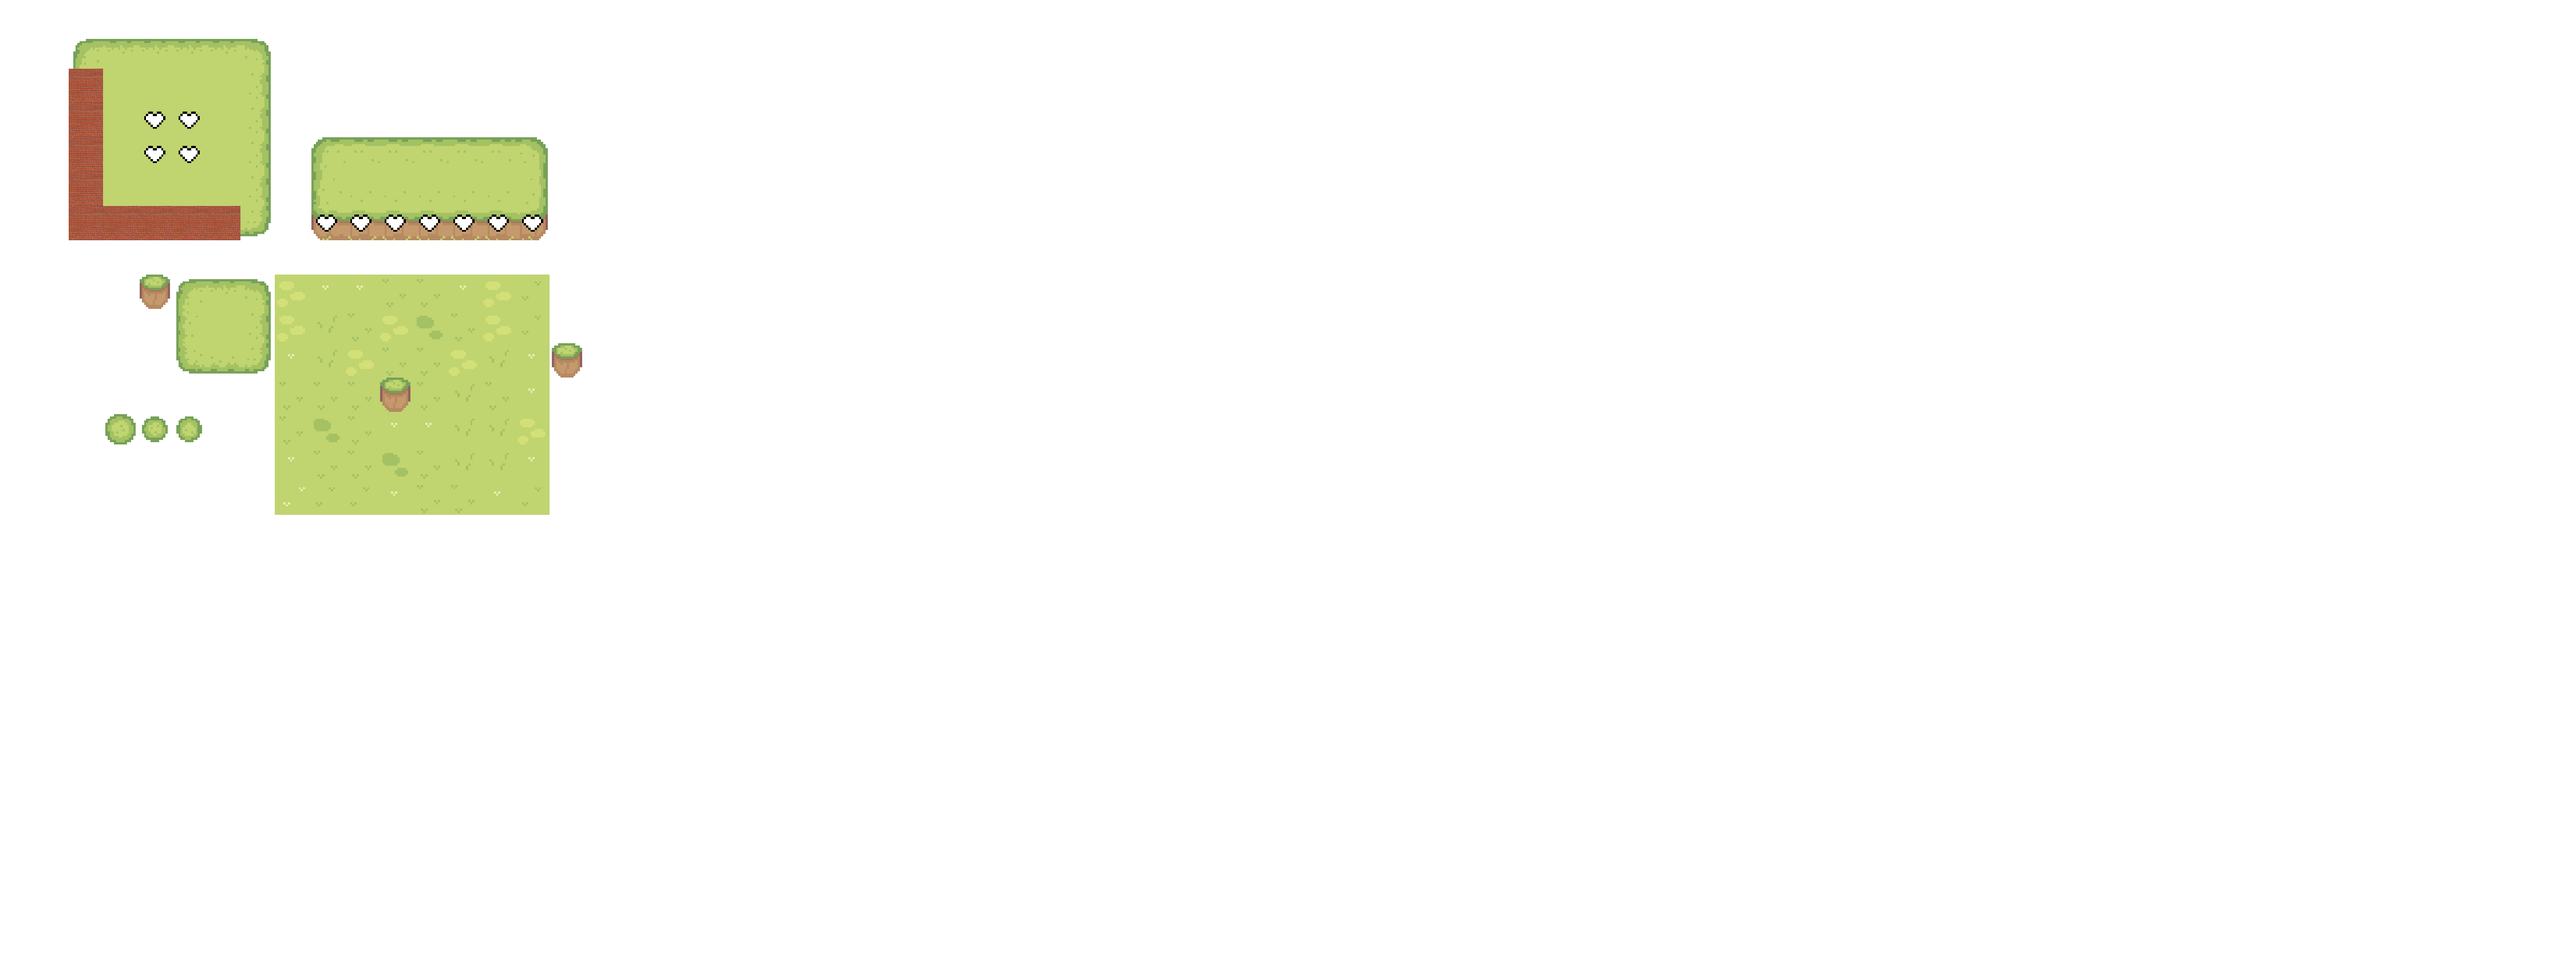
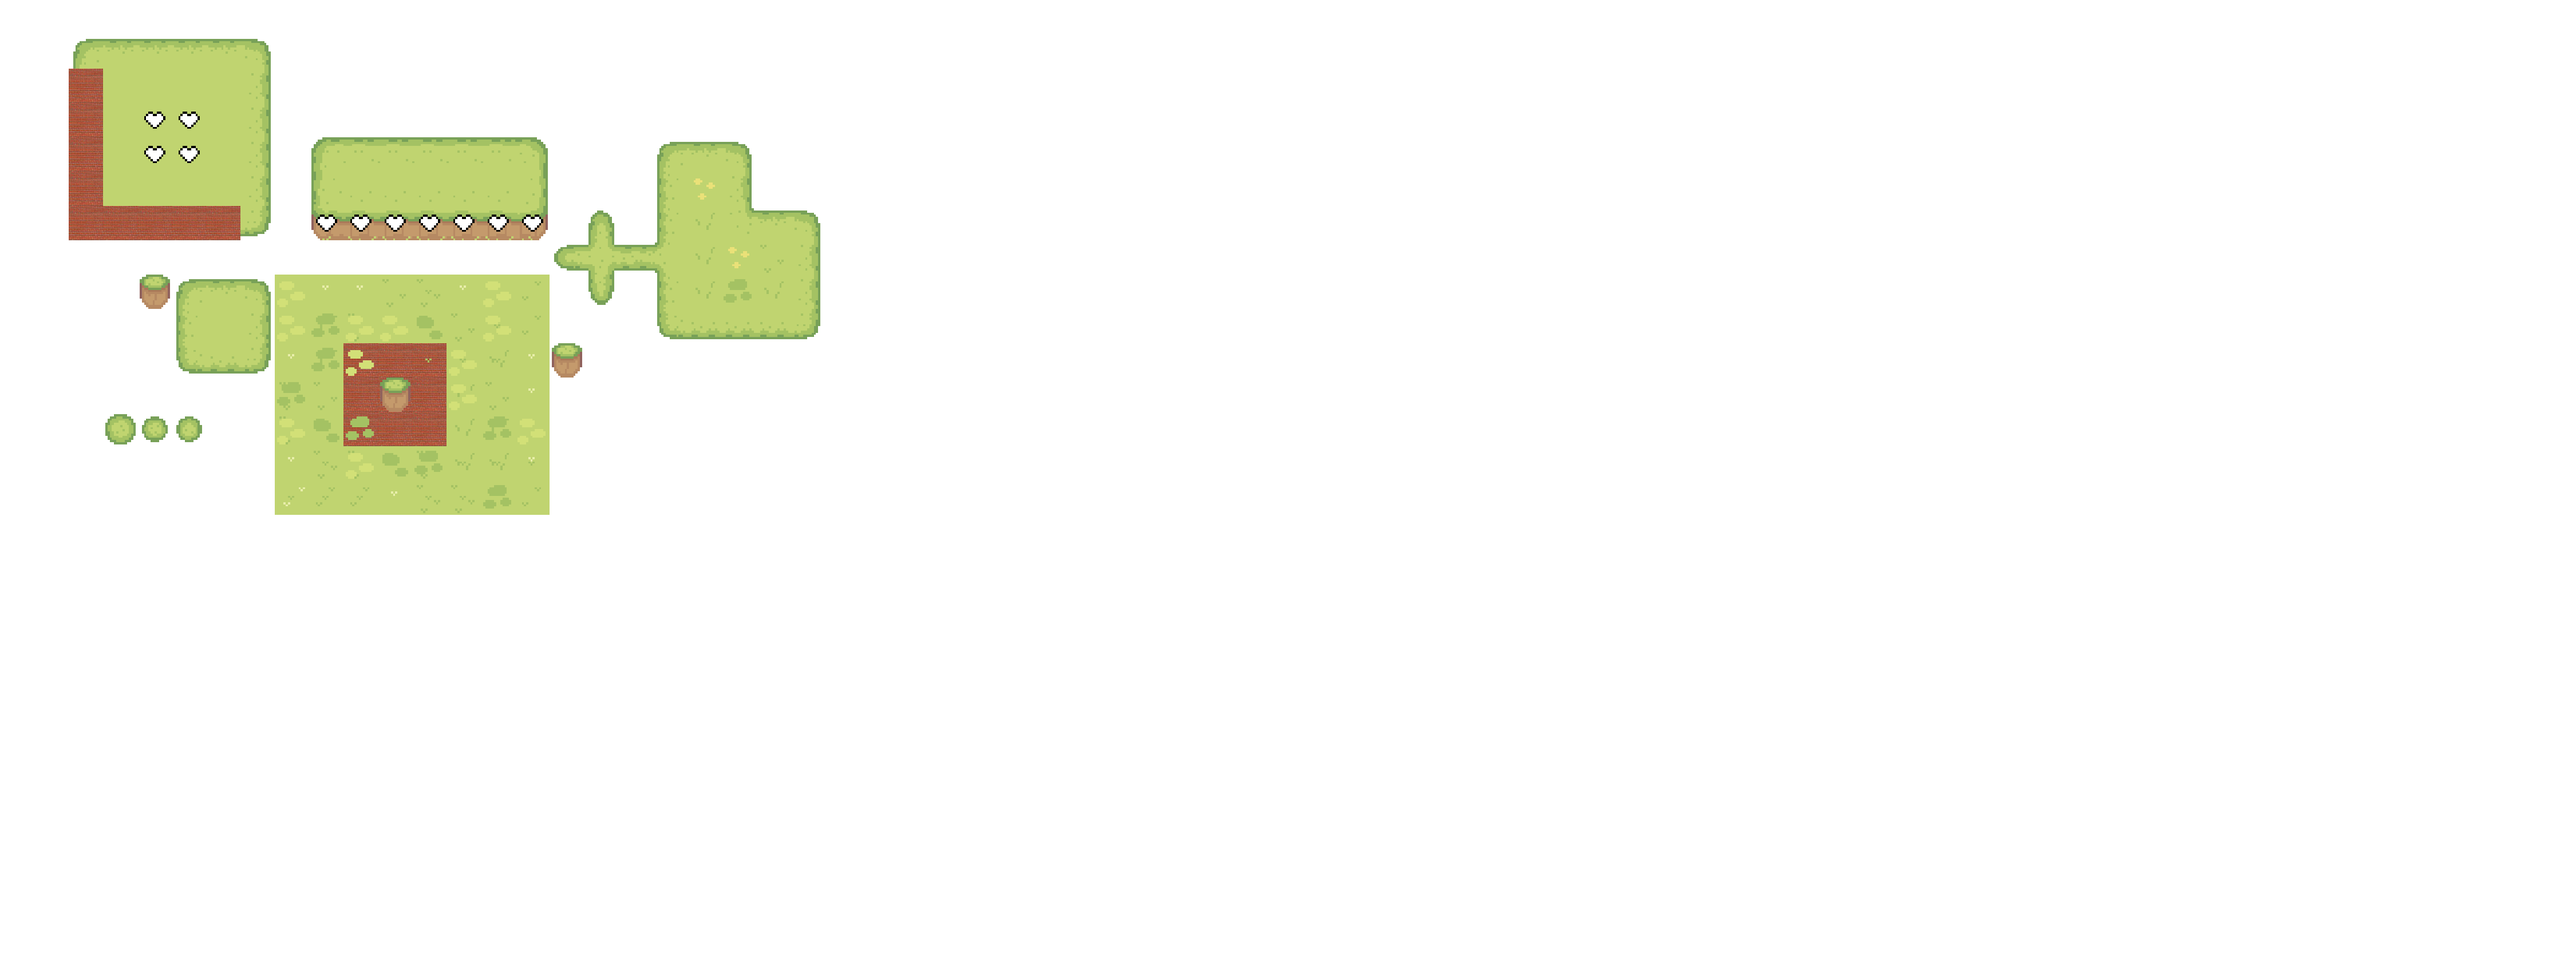
ajouté remplissage de rectangle et écran aide

Changed region(s): [[0.2178, 0.1238, 0.3422, 0.3714], [0.0933, 0.3405, 0.2178, 0.4952], [0.1867, 0.4952, 0.2178, 0.5262]]

diff --git a/Projet jeu vidéo/maps/map editor.py b/Projet jeu vidéo/maps/map editor.py
@@ -2,7 +2,7 @@ import pygame
 import sys
 import os
 import pickle
-
+from math import ceil, floor
 from attributs import *
 
 pygame.init()
@@ -12,13 +12,13 @@ BG_COLOR = (255, 255, 255)
 
 # constantes pour le zoom
 MIN_ZOOM = 0.2
-MAX_ZOOM = 10
+MAX_ZOOM = 5
 
 #Paramétres de la map
 NUM_LAYERS = 5
 
-SCREEN_WIDTH = 800
-SCREEN_HEIGHT = 600
+SCREEN_WIDTH = 900
+SCREEN_HEIGHT = 700
 
 FOLDER_PATH = "collisions"
 TILE_MAP_FOLDER_NAME = "tilemaps"
@@ -27,6 +27,10 @@ TILE_MAP_RELOADABLE_FILE_NAME = "map_reload.txt"
 TILE_MAP_IMAGE_FILE_NAME = "map.png"
 
 FONT = pygame.font.Font(size=32)
+
+HELP_BACKGROUND = pygame.Surface((SCREEN_WIDTH, SCREEN_HEIGHT))
+HELP_BACKGROUND.fill(pygame.Color(200, 200, 100))
+HELP_BACKGROUND.set_alpha(150)
 
 if os.path.isfile(TILE_MAP_IMAGE_FILE_NAME):
     map_surface = pygame.image.load(TILE_MAP_IMAGE_FILE_NAME)
@@ -84,6 +88,10 @@ def main():
     menu.draw(screen)
 
     placing_tile = False
+    placing_rect = False
+    placing_rect_position = pygame.Vector2(0, 0)
+
+    show_help = True
 
     map_sauvegarde = True
 
@@ -95,29 +103,38 @@ def main():
     running = True
     while running:
         touches_appuyes = pygame.key.get_pressed()
+        x, y = pygame.mouse.get_pos()
         for event in pygame.event.get():
             if event.type == pygame.KEYDOWN:
                 if event.key == pygame.K_ESCAPE:
                     dialogue_quitter(layers, map_sauvegarde, images)
-                if event.key == pygame.K_q:
+                elif event.key == pygame.K_q:
                     map_sauvegarde = True
                     save_map_image(layers, images)
                     pygame.image.save(map_surface, TILE_MAP_IMAGE_FILE_NAME)
                     save_map(TILE_MAP_FILE_NAME, layers)
                     save_map(TILE_MAP_RELOADABLE_FILE_NAME, layers, False)
-                if event.key == pygame.K_a:
+                elif event.key == pygame.K_a:
                     menu.visible = not menu.visible
                     if not menu.visible:
                         menu.dragging = -1
-                if event.key == pygame.K_UP:
+                elif event.key == pygame.K_UP:
                     current_layer = min(current_layer + 1, NUM_LAYERS - 1)
                 elif event.key == pygame.K_DOWN:
                     current_layer = max(current_layer - 1, 0)
+                elif event.key == pygame.K_e:
+                    menu.dragging = VIDE
+                elif event.key == pygame.K_h:
+                    show_help = not show_help
                 if touches_appuyes[pygame.K_LCTRL] or touches_appuyes[pygame.K_RCTRL]:
                     if event.key == pygame.K_z:
                         if len(historique_changements) > 0:
                             changement = historique_changements[0]
-                            add_tile_to_map(layers[changement["layer"]], changement["tuile"], changement["pos"], zoom_factor)
+                            if type(changement) is list:
+                                for change in changement:
+                                    add_tile_to_map(layers[change["layer"]], change["tuile"], change["pos"], zoom_factor)
+                            else:
+                                add_tile_to_map(layers[changement["layer"]], changement["tuile"], changement["pos"], zoom_factor)
                             historique_changements.pop(0)
                 else:
                     if event.key == pygame.K_z:
@@ -135,8 +152,7 @@ def main():
                     dragging = True
                     last_mouse_pos = pygame.mouse.get_pos()
                 elif event.button == 2:
-                    mouse_x, mouse_y = pygame.mouse.get_pos()
-                    menu.dragging = get_tile_from_map(layers[current_layer], (mouse_x - offset_x, mouse_y - offset_y), zoom_factor) or VIDE
+                    menu.dragging = get_tile_from_map(layers[current_layer], (x - offset_x, y - offset_y), zoom_factor) or VIDE
                 elif event.button == 3:
                     if menu.dragging != -1:
                         placing_tile = True
@@ -147,19 +163,39 @@ def main():
                     dragging = False
                 elif event.button == 3:
                     placing_tile = False
-            
+                    if not type(placing_rect) is bool and menu.dragging != -1 and not (placing_rect.width == 0 or placing_rect.height == 0):
+                        placing_rect.width /= zoom_factor
+                        placing_rect.height /= zoom_factor
+                        scaled_tile_size = TILE_SIZE
+                        x = placing_rect.left
+                        changements = []
+                        while x < placing_rect.right:
+                            y = placing_rect.top
+                            while y < placing_rect.bottom:
+                                coords = (x, y)
+                                changement = {
+                                    "pos": (x * zoom_factor, y * zoom_factor),
+                                    "tuile": get_tile_from_map(layers[current_layer], coords, 1),
+                                    "layer": current_layer
+                                }
+                                changements.append(changement)
+                                add_tile_to_map(layers[current_layer], menu.dragging, coords, 1)
+                                y += scaled_tile_size
+                            x += scaled_tile_size
+                        historique_changements.insert(0, changements)
+                        if len(historique_changements) > changements_max:
+                            historique_changements.pop()
+
             elif event.type == pygame.MOUSEMOTION:
                 if dragging:
-                    mouse_x, mouse_y = pygame.mouse.get_pos()
                     if last_mouse_pos:
-                        dx = mouse_x - last_mouse_pos[0]
-                        dy = mouse_y - last_mouse_pos[1]
+                        dx = x - last_mouse_pos[0]
+                        dy = y - last_mouse_pos[1]
                         offset_x += dx
                         offset_y += dy
-                    last_mouse_pos = (mouse_x, mouse_y)
+                    last_mouse_pos = (x, y)
             
             elif event.type == pygame.MOUSEWHEEL:
-                x, y = pygame.mouse.get_pos()
                 if menu.rect.collidepoint(x, y):
                     if event.y > 0:
                         menu.y_scroll = min(menu.y_scroll + menu.scroll_speed, menu.offset_y * 2)
@@ -171,10 +207,35 @@ def main():
                     elif event.y < 0:
                         zoom_factor = max(zoom_factor - zoom_speed, MIN_ZOOM)
         
+        if touches_appuyes[pygame.K_LSHIFT]:
+            global_mouse_x = (x - offset_x) / zoom_factor
+            global_mouse_y = (y - offset_y) / zoom_factor
+            scaled_tile_size = TILE_SIZE * zoom_factor
+            if type(placing_rect) is bool:
+                coords = (floor(global_mouse_x / TILE_SIZE) * TILE_SIZE, floor(global_mouse_y / TILE_SIZE) * TILE_SIZE)
+                placing_rect = pygame.Rect(coords, (scaled_tile_size, scaled_tile_size))
+                placing_rect_position = pygame.Vector2(coords)
+            func_x = ceil
+            func_y = ceil
+            if global_mouse_x < placing_rect_position.x:
+                func_x = floor
+            if global_mouse_y < placing_rect_position.y:
+                func_y = floor
+            placing_rect.size = (abs(func_x((global_mouse_x - placing_rect_position.x) / TILE_SIZE) * scaled_tile_size), abs(func_y((global_mouse_y - placing_rect_position.y) / TILE_SIZE) * scaled_tile_size))
+            if global_mouse_x < placing_rect_position.x:
+                placing_rect.left = placing_rect_position.x - placing_rect.width / zoom_factor
+            else:
+                placing_rect.left = placing_rect_position.x
+            if global_mouse_y < placing_rect_position.y:
+                placing_rect.top = placing_rect_position.y - placing_rect.height / zoom_factor
+            else:
+                placing_rect.top = placing_rect_position.y
+        else:
+            placing_rect = False
+
         screen.fill(BG_COLOR)
 
-        if placing_tile:
-            x, y = pygame.mouse.get_pos()
+        if placing_tile and type(placing_rect) is bool:
             coords = (x - offset_x, y - offset_y)
             if dernier_tuile_placee_coords != coords:
                 dernier_tuile_placee_coords = coords
@@ -210,11 +271,21 @@ def main():
 
         pygame.draw.rect(screen, (0, 0, 0), (offset_x, offset_y, WIDTH_MAP * zoom_factor, HEIGHT_MAP * zoom_factor), 10)
 
+        if not type(placing_rect) is bool:
+            s = pygame.Surface((placing_rect.size[0], placing_rect.size[1]))
+            s.set_alpha(100)
+            s.fill((100, 100, 100))
+            screen.blit(s, (placing_rect.left * zoom_factor + offset_x, placing_rect.top * zoom_factor + offset_y))
+        
         menu.draw(screen)
         
         current_layer_img = FONT.render("couche: " + str(current_layer), True, (0, 100, 100))
-
         screen.blit(current_layer_img, (SCREEN_WIDTH - 100, 10))
+        help_img = FONT.render("aide: h", True, (0, 100, 100))
+        screen.blit(help_img, (SCREEN_WIDTH - 100, 42))
+
+        if show_help:
+            draw_help(screen)
 
         pygame.display.update()
 
@@ -259,6 +330,32 @@ def get_tile_from_map(TILE_MAP, coords, zoom_factor=1):
     cell_y = int(y // scaled_tile)
     if 0 < cell_x < WIDTH_MAP / TILE_SIZE - 1 and 0 < cell_y < HEIGHT_MAP / TILE_SIZE - 1:
         return TILE_MAP[cell_y][cell_x]
+    else:
+        return VIDE
+
+def draw_help(screen: pygame.Surface):
+    screen.blit(HELP_BACKGROUND, (0, 0))
+    text = [
+        "sauver: q",
+        "montrer/cacher l'aide: h",
+        "quitter: esc",
+        "monter/descendre d'une couche: flèches haut/bas",
+        "défaire: ctrl+z",
+        "reset zoom: z",
+        "remplir rectangle: shift gauche + déplacer souris puis click droit",
+        "gomme: e",
+        "choisir tuile: click gauche sur la tuile dans la barre de gauche",
+        "déplacer: click gauche sur la map + déplacer souris",
+        "descendre/monter dans la barre de gauche: molette de la souris",
+        "placer tuile: click droit",
+        "zoomer/dézoomer: molette de la souris",
+        "choisir tuile de la map: click milieu",
+    ]
+    text_imgs = []
+    for line in text:
+        text_imgs.append(FONT.render(line, True, (0, 200, 200)))
+    for y, img in enumerate(text_imgs):
+        screen.blit(img, (20, 20 + y * 40))
 
 class Menu:
     def __init__(self, images: dict):
@@ -280,7 +377,7 @@ class Menu:
         self.rect = self.menu_image.get_rect()
         self.rect.topleft = (0, self.offset_y)
         self.y_scroll = self.offset_y * 2
-        self.scroll_speed = 20.0
+        self.scroll_speed = TILE_SIZE
     
     def draw(self, screen: pygame.Surface):
         screen.blit(self.edit_image, (0, 0))
@@ -294,11 +391,6 @@ class Menu:
             self.collisionRects = []
             for key in self.collisionList:
                 img: pygame.Surface = self.collisionList[key]
-                """ if y + TILE_SIZE * 2 < self.menu_image.get_height():
-                    y += TILE_SIZE
-                else:
-                    offset_x += TILE_SIZE
-                    y = self.y_scroll """
                 pos = (offset_x, self.offset_y + y - img.get_height())
                 if self.offset_y < pos[1] < SCREEN_HEIGHT:
                     if key == VIDE:

diff --git a/Projet jeu vidéo/maps/attributs.py b/Projet jeu vidéo/maps/attributs.py
@@ -31,7 +31,7 @@ def main():
     # tuile_a_remplir: la position d'une tuile qui va etre remplie avec remplir_avec. ex: Vector2(x, y) ou x et y sont les coordonées de la tuile (en nombre de tuiles, commencant a 0)
     # vous pouvez mettre autant de tuile_a_remplir que vous voulez, mais n'oubliez pas les virgules entre chaque!
 
-    tile_maps["Grass.png"] = {"tile_size": 16, "attributs": [create_tile_atlas(4, 7)]}
+    tile_maps["Grass.png"] = {"tile_size": 16, "attributs": [create_tile_atlas(11, 7)]}
     tile_maps["Hills.png"] = {"tile_size": 16, "attributs": [create_tile_atlas(4, 4, [], [MUR], [Vector2(3, i) for i in range(4)], [Vector2(i, 2) for i in range(3)], [Vector2(i, 3) for i in range(3)])]}
 
 # Paramétres de la map:
